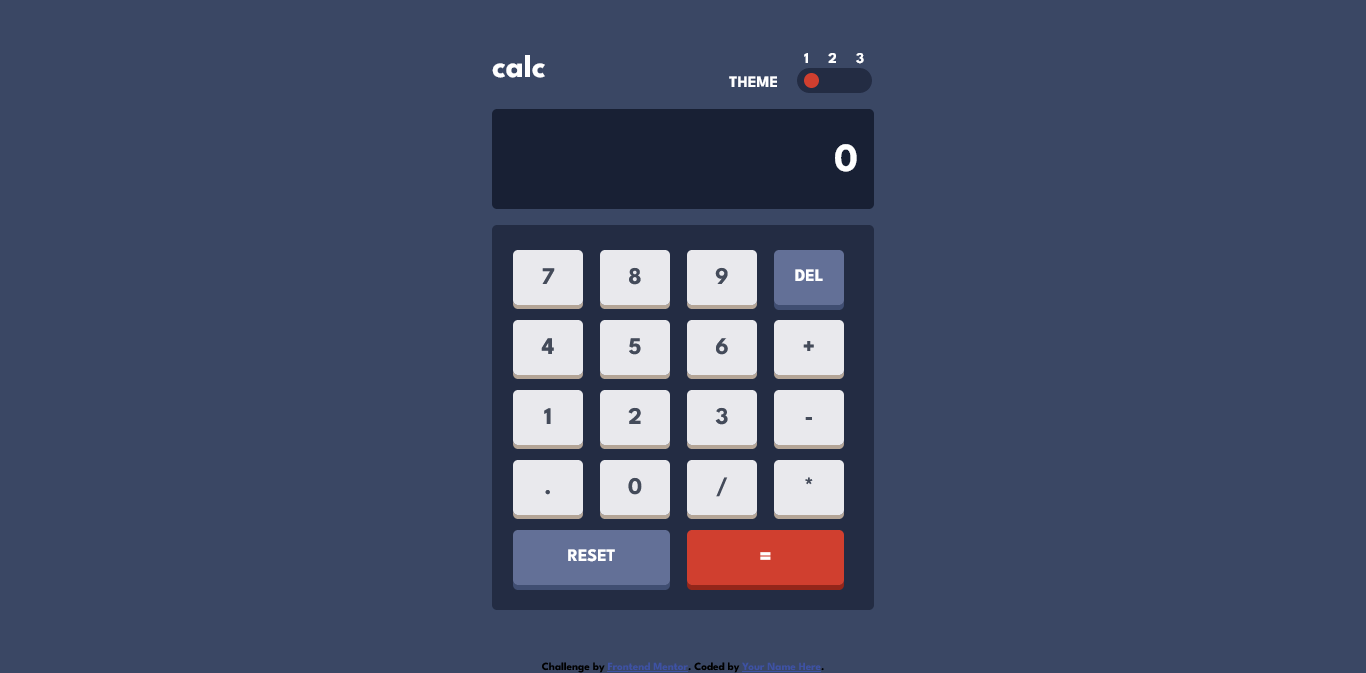
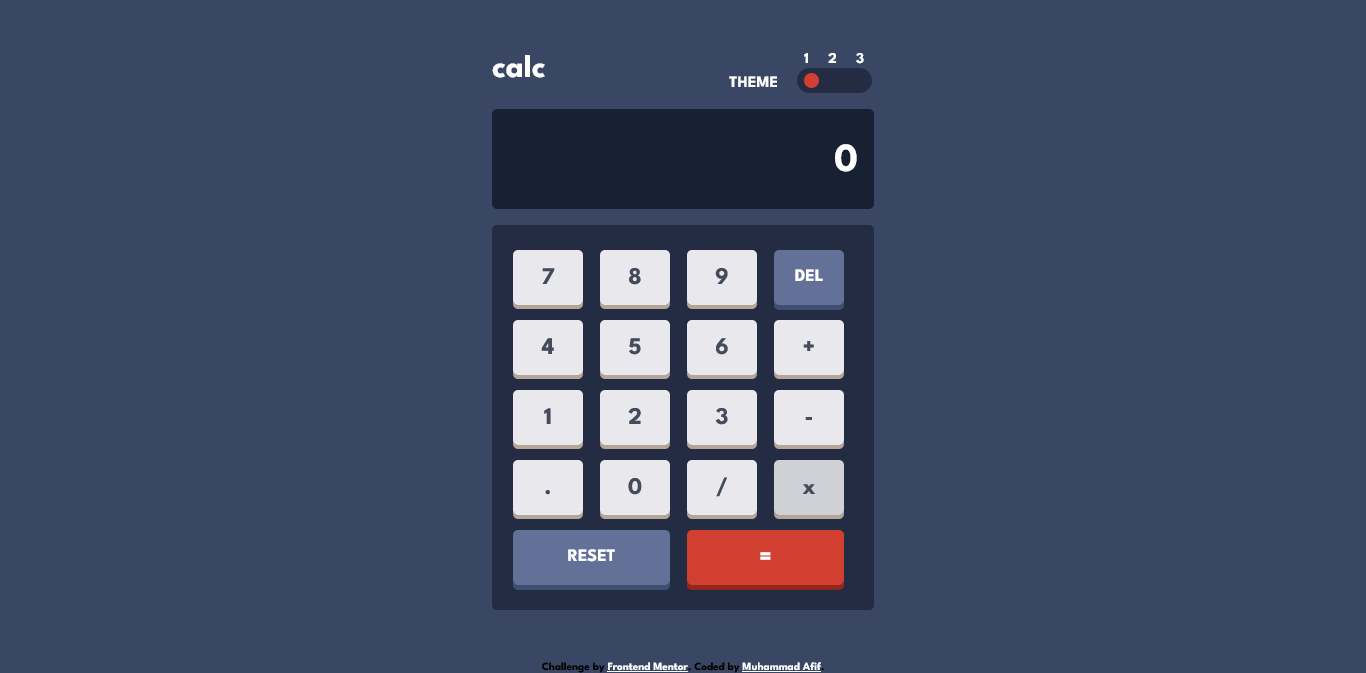
update image and update readme

Changed region(s): [[0.5534, 0.6865, 0.6149, 0.7801], [0.4305, 0.9673, 0.6149, 0.9985]]

diff --git a/README.md b/README.md
@@ -14,9 +14,6 @@ This is a solution to the [Calculator app challenge on Frontend Mentor](https://
   - [Continued development](#continued-development)
   - [Useful resources](#useful-resources)
 - [Author](#author)
-- [Acknowledgments](#acknowledgments)
-
-**Note: Delete this note and update the table of contents based on what sections you keep.**
 
 ## Overview
 
@@ -35,8 +32,8 @@ Users should be able to:
 
 ### Links
 
-- Solution URL: [Add solution URL here](https://your-solution-url.com)
-- Live Site URL: [Add live site URL here](https://your-live-site-url.com)
+- Solution URL: [Add solution URL here](https://github.com/mafif21/calculator#links)
+- Live Site URL: [Add live site URL here](https://628e3c20fac0e31dd726835b--singular-meerkat-143e73.netlify.app/)
 
 ## My process
 
@@ -52,13 +49,11 @@ Users should be able to:
 
 i learn so much about class in javascript , and im so struggle about it
 
-To see how you can add code snippets, see below:
-
 ### Continued development
 
 after this project i wll to make website with api like movie website or something
 
 ## Author
 
-- Frontend Mentor - [@yourusername](https://www.frontendmentor.io/profile/mafif21)
+- Frontend Mentor - [@mafif21](https://www.frontendmentor.io/profile/mafif21)
 - Twitter - [@yleletambak](https://twitter.com/leletambak)
